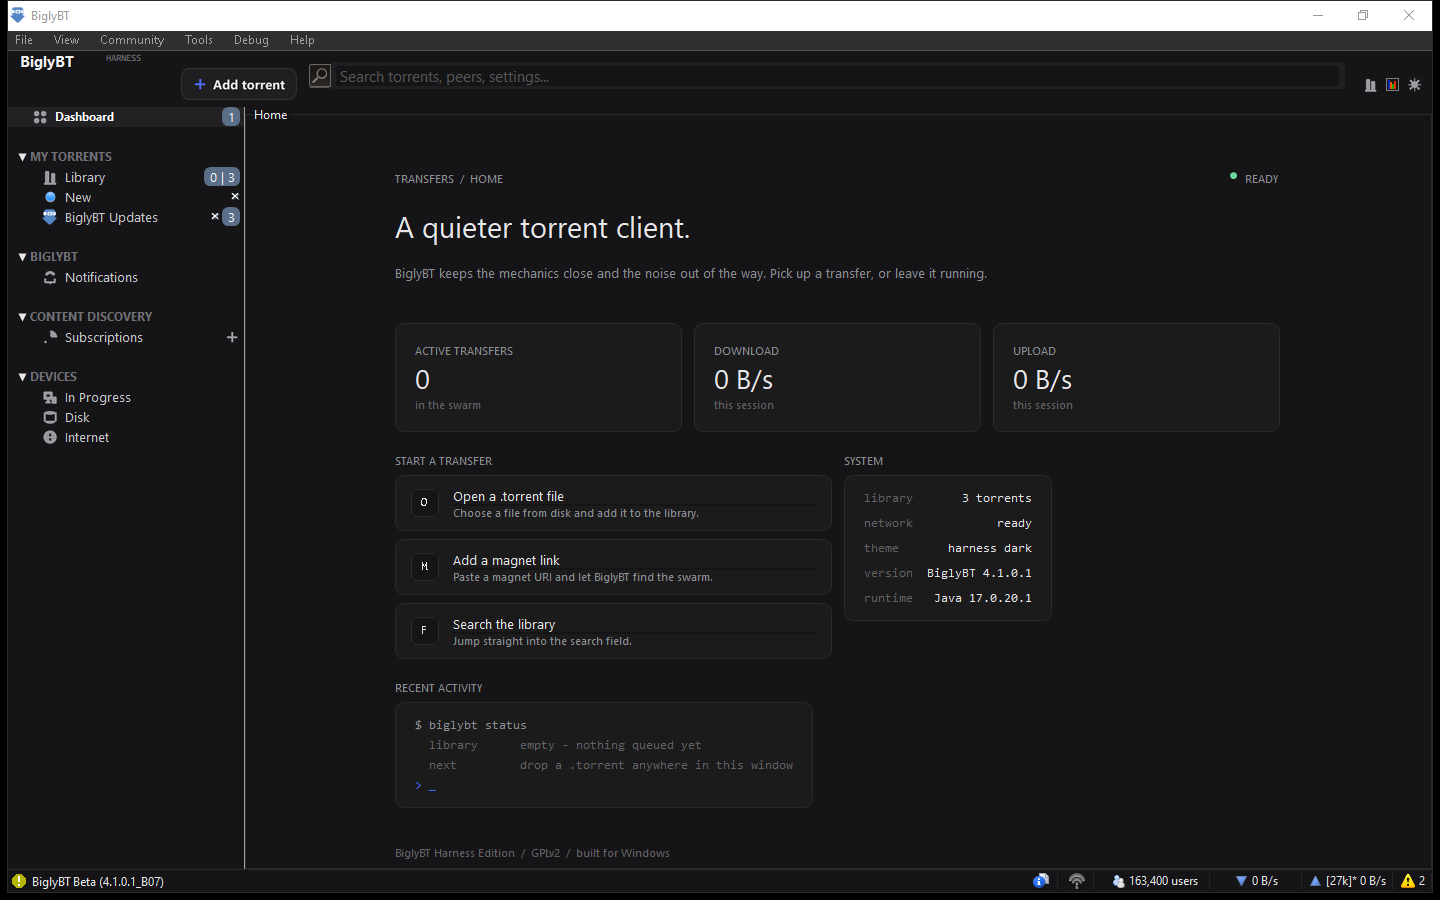
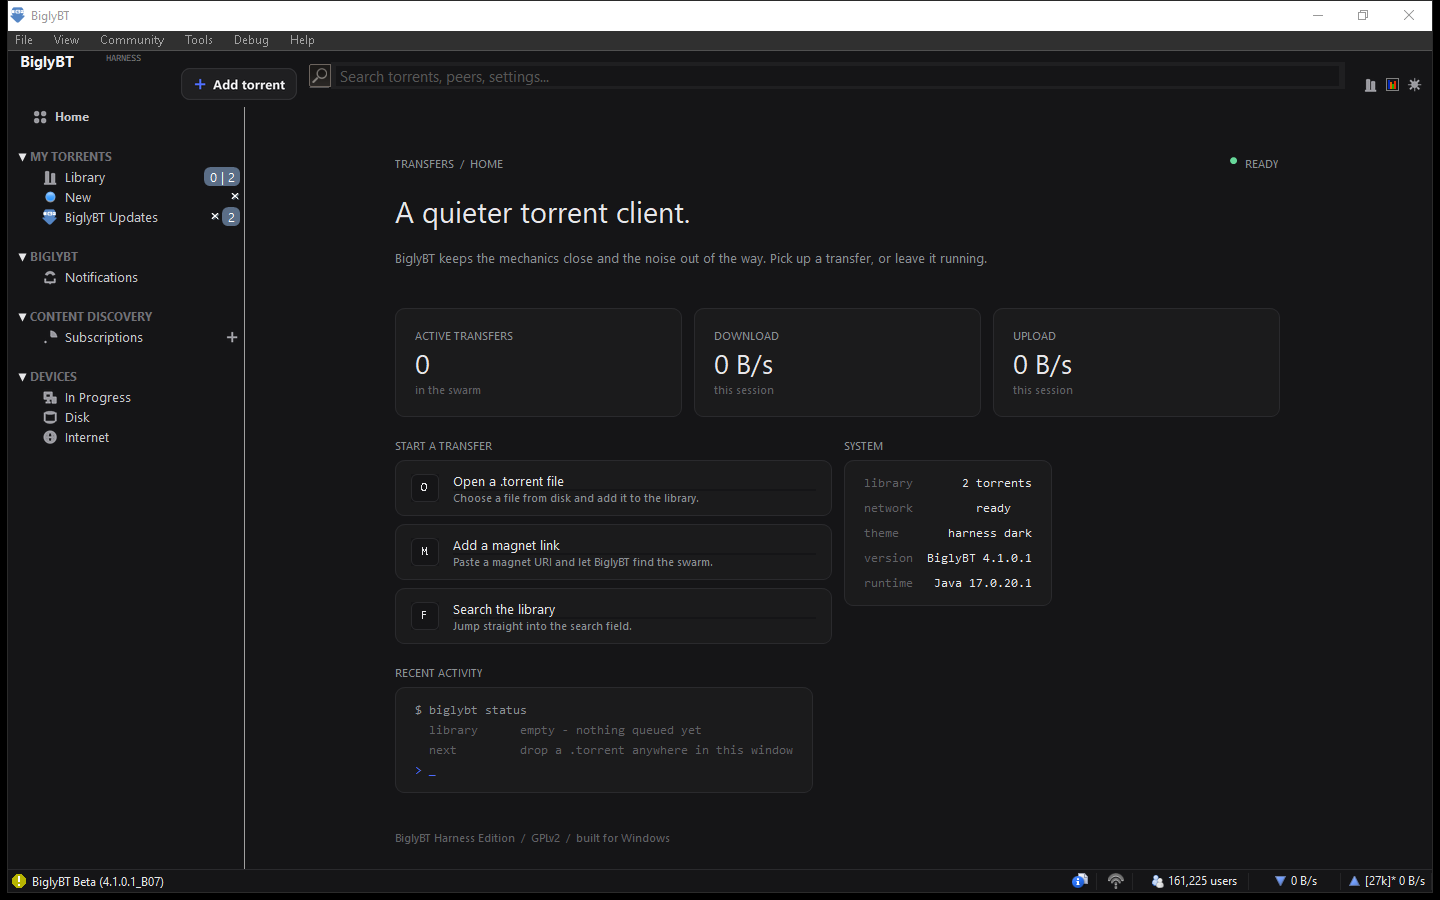
Harness Edition: native home overlay and polished chrome

diff --git a/uis/src/com/biglybt/ui/swt/shells/main/MainWindowImpl.java b/uis/src/com/biglybt/ui/swt/shells/main/MainWindowImpl.java
@@ -53,6 +53,7 @@ import com.biglybt.ui.UIFunctions;
 import com.biglybt.ui.UIFunctionsManager;
 import com.biglybt.ui.common.table.impl.TableColumnManager;
 import com.biglybt.ui.common.updater.UIUpdatable;
+import com.biglybt.ui.mdi.MdiEntry;
 import com.biglybt.ui.mdi.MultipleDocumentInterface;
 import com.biglybt.ui.skin.SkinConstants;
 import com.biglybt.ui.skin.SkinPropertiesImpl;
@@ -1874,6 +1875,65 @@ public class MainWindowImpl
 						topbarMenu);
 			}
 		}
+
+		installHarnessHome( mdi );
+	}
+
+	private void
+	installHarnessHome(
+		BaseMDI		mdi )
+	{
+		SWTSkinObject skinObject = skin.getSkinObject( "sidebar-contents" );
+
+		if ( skinObject == null ){
+			skinObject = skin.getSkinObject( "main.sidebar.content" );
+		}
+
+		if ( skinObject == null || !( skinObject.getControl() instanceof Composite )){
+			return;
+		}
+
+		final Composite host = (Composite)skinObject.getControl();
+
+		final Composite overlay = new Composite( host, SWT.NONE );
+		overlay.setBackground( host.getDisplay().getSystemColor( SWT.COLOR_BLACK ));
+		overlay.setLayoutData( Utils.getFilledFormData());
+
+		new com.biglybt.ui.swt.views.skin.HarnessHomePanel( overlay );
+
+		overlay.moveAbove( null );
+
+		// Harness starts on Home. The MDI selection event may not fire for the
+		// initial entry, so show the surface until another entry is selected.
+		overlay.setVisible( true );
+
+		mdi.addListener(
+			new com.biglybt.ui.mdi.MdiListener()
+			{
+				@Override
+				public void
+				mdiEntrySelected(
+					MdiEntry	newEntry,
+					MdiEntry	oldEntry )
+				{
+					boolean home =
+						newEntry != null &&
+						MultipleDocumentInterface.SIDEBAR_HEADER_DASHBOARD.equals( newEntry.getId());
+
+					overlay.setVisible( home );
+
+					if ( home ){
+						overlay.moveAbove( null );
+					}
+				}
+
+				@Override
+				public void
+				mdiDisposed(
+					MultipleDocumentInterface mdi )
+				{
+				}
+			});
 	}
 
 	private void addMenuAndNonTextChildren(Composite parent, Menu menu) {

diff --git a/uis/src/com/biglybt/ui/swt/views/skin/SB_Dashboard.java b/uis/src/com/biglybt/ui/swt/views/skin/SB_Dashboard.java
@@ -590,6 +590,12 @@ public class SB_Dashboard
 		return( main_dashboard.getItemCount());
 	}
 
+	public boolean
+	isHarnessHomeOnly()
+	{
+		return( main_dashboard.isHarnessHomeOnly());
+	}
+
 	public void
 	build(
 		Composite		comp )
@@ -703,22 +709,13 @@ public class SB_Dashboard
 			
 			@Override
 			public Object getTitleInfoProperty(int propertyID) {
-				if (propertyID == TITLE_INDICATOR_TEXT) {
-					return( String.valueOf( main_dashboard.getItemCount()));
-				}
-
-				if (propertyID == TITLE_INDICATOR_TEXT_TOOLTIP) {
-					
-					return( null );
-				}
-
 				return null;
 			}
 		};
 		
 		mdi_entry = mdi.createEntryFromSkinRef(
 				"", MultipleDocumentInterface.SIDEBAR_HEADER_DASHBOARD,
-				"dashboard", "{sidebar.header.dashboard}",
+				"dashboard", "Home",
 				title_info, null, false, null);
 
 
@@ -1074,6 +1071,16 @@ public class SB_Dashboard
 		getItemCount()
 		{
 			return( items.size());
+		}
+
+		private boolean
+		isHarnessHomeOnly()
+		{
+			if ( items.size() != 1 ){
+				return( false );
+			}
+
+			return( "HarnessHome".equals( items.get(0).getState().get( "id" )));
 		}
 
 		private List<DashboardItem>

diff --git a/uis/src/com/biglybt/ui/swt/views/skin/HarnessDashboardView.java b/uis/src/com/biglybt/ui/swt/views/skin/HarnessDashboardView.java
@@ -14,9 +14,11 @@ import org.eclipse.swt.widgets.Composite;
 import com.biglybt.ui.swt.skin.SWTSkinObject;
 
 /**
- * Hosts the native Harness landing panel inside a dashboard tile.
+ * Replaces the legacy dashboard builder (and its embedded wiki tile) with the
+ * native Harness landing surface. Attached to the "dashboard" skin object, so
+ * it is built whenever the sidebar's Dashboard header is selected.
  */
-public class HarnessHomeView
+public class HarnessDashboardView
 	extends SkinView
 {
 	private HarnessHomePanel panel;
@@ -27,7 +29,7 @@ public class HarnessHomeView
 		SWTSkinObject	skinObject,
 		Object			params )
 	{
-		SWTSkinObject area = getSkinObject( "harness-home-area" );
+		SWTSkinObject area = getSkinObject( "dashboard-area" );
 
 		if ( area != null && area.getControl() instanceof Composite ){
 			panel = new HarnessHomePanel((Composite)area.getControl());

diff --git a/uis/src/com/biglybt/ui/swt/shells/main/MainMDISetup.java b/uis/src/com/biglybt/ui/swt/shells/main/MainMDISetup.java
@@ -141,28 +141,7 @@ public class MainMDISetup
 
 	
 	public static void setupSideBar(final MultipleDocumentInterfaceSWT mdi) {
-		mdi.registerEntry(
-			"HarnessHome",
-			new MdiEntryCreationListener()
-			{
-				@Override
-				public MdiEntry
-				createMDiEntry(
-					String id )
-				{
-					MdiEntry entry = mdi.createEntryFromSkinRef(
-						null, "HarnessHome", "harness.home", "Home",
-						null, null, false, SIDEBAR_POS_FIRST );
-
-					if ( entry != null ){
-						entry.setImageLeftID( "image.sidebar.dashboard" );
-					}
-
-					return( entry );
-				}
-			});
-
-		mdi.setDefaultEntryID("HarnessHome");
+		mdi.setDefaultEntryID(SIDEBAR_HEADER_DASHBOARD);
 
 		if (Utils.isAZ2UI()) {
 			setupSidebarClassic(mdi);

diff --git a/uis/src/com/biglybt/ui/swt/views/skin/HarnessHomePanel.java b/uis/src/com/biglybt/ui/swt/views/skin/HarnessHomePanel.java
@@ -142,7 +142,10 @@ public class HarnessHomePanel
 							run()
 							{
 								if ( !parent.isDisposed()){
-									updateStats();
+									try{
+										updateStats();
+									}catch( Throwable e ){
+									}
 								}
 							}
 						});
@@ -373,7 +376,11 @@ public class HarnessHomePanel
 			smallFont, dim );
 		footer.setLayoutData( new GridData( SWT.FILL, SWT.CENTER, true, false ));
 
-		updateStats();
+		try{
+			updateStats();
+		}catch( Throwable e ){
+			// Core may still be wiring up its global manager on first launch.
+		}
 	}
 
 	private void

diff --git a/uis/src/com/biglybt/ui/swt/views/skin/SBC_DashboardView.java b/uis/src/com/biglybt/ui/swt/views/skin/SBC_DashboardView.java
@@ -181,9 +181,13 @@ public class SBC_DashboardView
 			
 			SB_Dashboard sbd = MainMDISetup.getSb_dashboard();
 			
-			if ( sbd != null && sbd.getMainItemCount() == 0 ){
+			if ( sbd != null && ( sbd.getMainItemCount() == 0 || sbd.isHarnessHomeOnly() )){
 				
-				harness_home = new HarnessHomePanel( dashboard_composite );
+				try{
+					harness_home = new HarnessHomePanel( dashboard_composite );
+				}catch( Throwable e ){
+					com.biglybt.core.util.Debug.out( e );
+				}
 				
 			}else{
 				

diff --git a/HARNESS.md b/HARNESS.md
@@ -47,8 +47,9 @@ content gutters, 20px card padding, 12px card gaps.
 | Area | File(s) |
 | --- | --- |
 | Dark-first skin overlay and palette | `uis/src/com/biglybt/ui/skin/skin3_harness.properties`, `skin3.properties` |
-| Native home surface | `uis/src/com/biglybt/ui/swt/views/skin/HarnessHomePanel.java`, `HarnessHomeView.java` |
-| Dashboard replaces wiki tile | `SB_Dashboard.java`, `SBC_DashboardView.java` |
+| Native home surface | `uis/src/com/biglybt/ui/swt/views/skin/HarnessHomePanel.java` |
+| Home view + sidebar overlay | `HarnessDashboardView.java`, `MainWindowImpl.java` |
+| Dashboard replaces wiki tile | `SB_Dashboard.java`, `skin3_dashboard.properties` |
 | Sidebar typography/icons/selection | `SideBar.java`, `SideBarEntrySWT.java` |
 | Header, search, add-torrent action | `MainWindowImpl.java`, `skin3_harness.properties` |
 | Windows dark system colors and zebra rows | `Colors.java`, `Utils.java`, `SkinPropertiesImpl.java` |
@@ -112,8 +113,9 @@ After, Library:
   host. The app requested Windows' dark app mode and immersive title bar, but
   the legacy SWT/Win32 frame does not honour it consistently. The content area
   is fully dark.
-- The first launch can briefly show an empty dashboard while the core starts;
-  the native home panel populates once `GlobalManager` is available.
+- The Harness home surface is installed as a native SWT overlay on the sidebar
+  content host so it renders deterministically on first launch. Switching to
+  Library hides it and shows the normal MDI view.
 - `aereg64.dll` is not bundled in this repository. It is only needed for
   Explorer/firewall integration.
 
